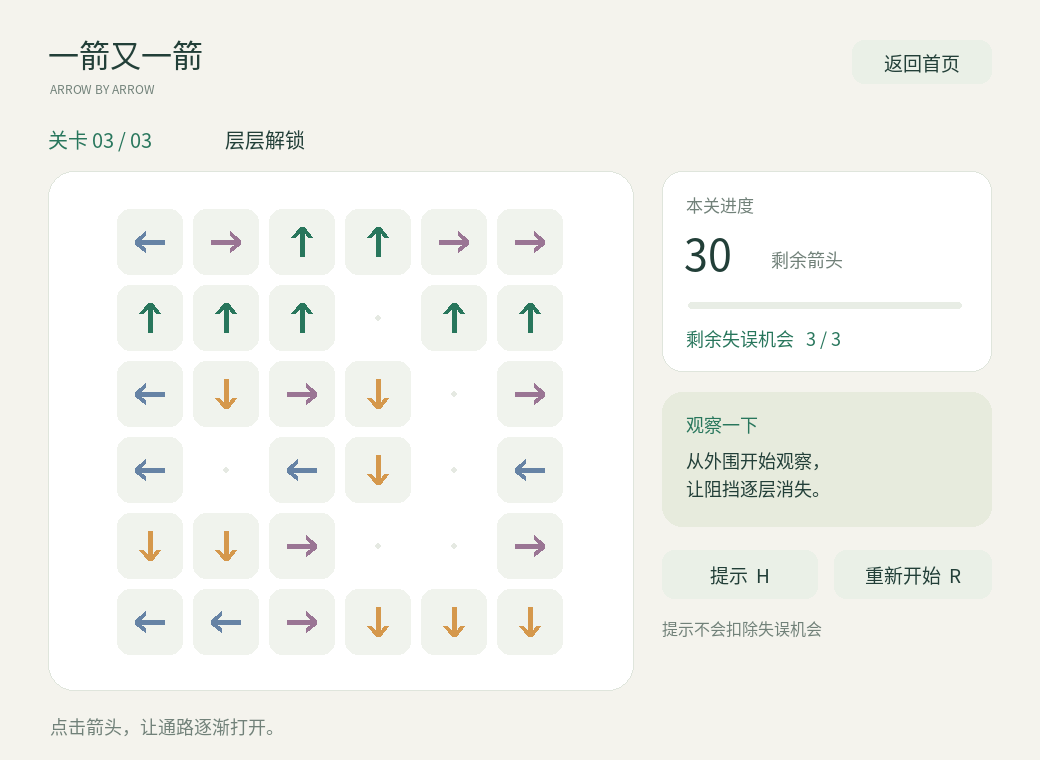
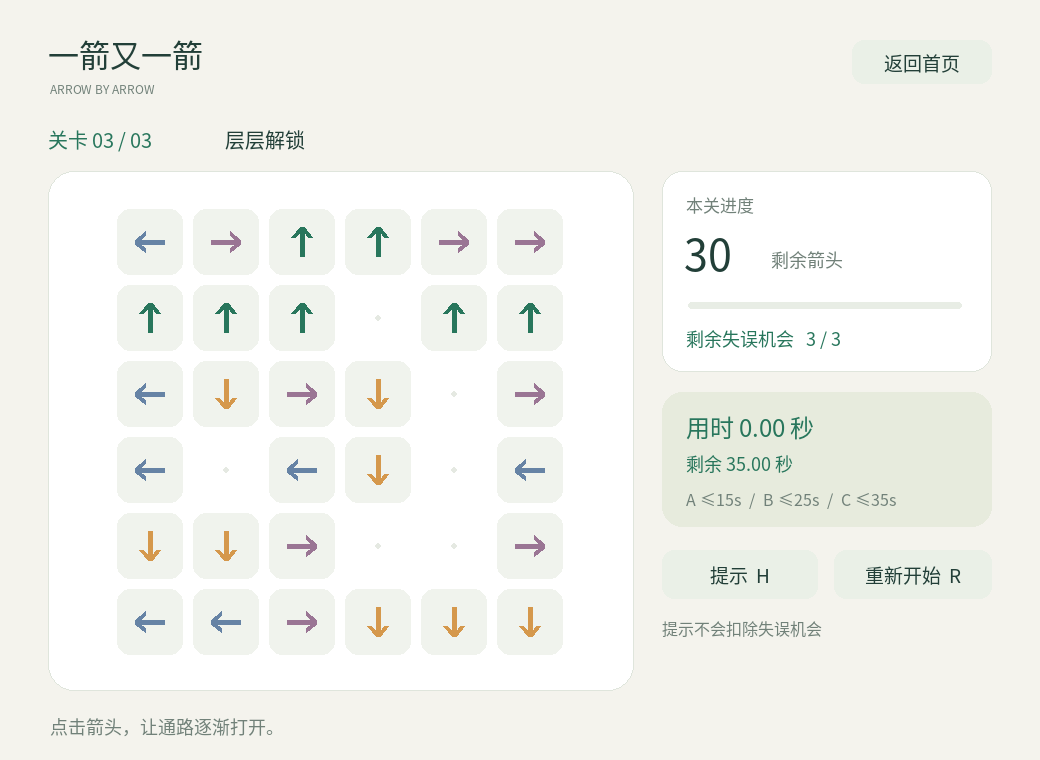
feat: add 35 second timer and A B C ratings

Changed region(s): [[0.6462, 0.5447, 0.8615, 0.6658]]

diff --git a/main.py b/main.py
@@ -6,7 +6,7 @@ from pathlib import Path
 os.environ.setdefault('PYGAME_HIDE_SUPPORT_PROMPT', '1')
 import pygame
 from levels import LEVELS
-from logic import DIRECTIONS, Game
+from logic import DIRECTIONS, Game, TIME_LIMIT, EXIT_DURATION, BUMP_DURATION
 
 ROOT = Path(__file__).resolve().parent
 WIDTH, HEIGHT = 1040, 760
@@ -97,8 +97,9 @@ class App:
         self.text('一场关于顺序的小小解谜', (64, 293), 24, GREEN)
         for i, line in enumerate(['点击前方畅通的箭头，让它飞出棋盘。',
                                   '被其他箭头挡住？你有 3 次失误机会。',
-                                  '清空所有箭头，解锁下一关。']):
+                                  '每关限时 35 秒，超时即挑战失败。']):
             self.text(line, (66, 365+i*40), 20, MUTED)
+        self.text('A ≤15秒   /   B ≤25秒   /   C ≤35秒', (66, 489), 18, GREEN)
         self.button('start', '开始挑战', (64, 534, 234, 58), True)
         self.text('3 个原创关卡   /   鼠标操作   /   轻量解谜', (65, 619), 16, MUTED)
         self.panel((626, 159, 342, 397), '#E6EBDF', radius=32)
@@ -132,7 +133,7 @@ class App:
             x,y=self.cell_center(animation.row,animation.col)
             dr,dc=DIRECTIONS[animation.direction]
             if animation.kind=='exit':
-                t=min(1,animation.elapsed/.58)
+                t=min(1,animation.elapsed/EXIT_DURATION)
                 if dc==1: distance=self.board_rect.right-x+self.cell
                 elif dc==-1: distance=x-self.board_rect.left+self.cell
                 elif dr==1: distance=self.board_rect.bottom-y+self.cell
@@ -140,7 +141,7 @@ class App:
                 offset=distance*t*t
                 color=COLORS[animation.direction]
             else:
-                t=min(1,animation.elapsed/.38)
+                t=min(1,animation.elapsed/BUMP_DURATION)
                 offset=math.sin(t*math.pi)*self.cell*.17
                 color='#CE684D'
             old_clip=self.screen.get_clip()
@@ -168,12 +169,10 @@ class App:
         self.text(f'剩余失误机会   {g.mistakes} / {g.max_mistakes}',(686,325),18,
                   '#B95D43' if g.mistakes<=1 else GREEN)
         self.panel((662,392,330,135), '#E7EBDD')
-        self.text('观察一下', (686,411), 18, GREEN)
-        # 固定短文案，不依赖自动换行。
-        messages=[['先找朝向边界的箭头，','逐步打开通路。'],
-                  ['空格不代表畅通，','留意整行与整列。'],
-                  ['从外围开始观察，','让阻挡逐层消失。']][g.level_index]
-        for i,line in enumerate(messages): self.text(line,(686,447+i*28),18)
+        time_color = '#B95D43' if g.elapsed > 25 else GREEN
+        self.text(f'用时 {g.elapsed:.2f} 秒', (686,409), 24, time_color)
+        self.text(f'剩余 {max(0, TIME_LIMIT-g.elapsed):.2f} 秒', (686,450), 18, time_color)
+        self.text('A ≤15s  /  B ≤25s  /  C ≤35s', (686,487), 16, MUTED)
         self.button('hint','提示  H',(662,550,156,49))
         self.button('restart','重新开始  R',(834,550,158,49))
         self.text('提示不会扣除失误机会', (662,616), 16, MUTED)
@@ -189,12 +188,13 @@ class App:
         state=self.game.state
         won=state!='GAME_OVER'
         title={'LEVEL_CLEAR':'通路已打开！','ALL_CLEAR':'全部通关！','GAME_OVER':'再观察一次吧'}[state]
-        self.text('CLEAR' if won else 'TRY AGAIN',(520,230),16,GREEN if won else '#B95D43',True)
+        self.text(f'评价 {self.game.grade}' if won else 'TRY AGAIN',(520,230),16,GREEN if won else '#B95D43',True)
         self.text(title,(520,291),36,INK,True)
         subtitle=(f'已完成全部 {len(LEVELS)} 个关卡。' if state=='ALL_CLEAR' else
-                  '本关箭头已全部飞出。' if won else '失误机会已用完，重新挑战本关。')
+                  '本关箭头已全部飞出。' if won else '超过 35 秒，时间已用完。' if self.game.failure_reason == 'timeout' else
+                  '失误机会已用完，重新挑战本关。')
         self.text(subtitle,(520,350),19,MUTED,True)
-        self.text(f'本关使用提示 {self.game.used_hints} 次',(520,385),16,MUTED,True)
+        self.text(f'本关用时 {self.game.elapsed:.2f} 秒  ·  提示 {self.game.used_hints} 次',(520,385),16,MUTED,True)
         label='下一关' if state=='LEVEL_CLEAR' else '从第一关开始' if state=='ALL_CLEAR' else '重新挑战'
         self.button('continue',label,(320,432,190,55),True)
         self.button('menu','返回首页',(530,432,190,55))
@@ -244,12 +244,14 @@ class App:
     def run(self):
         self.draw()
         while self.running:
-            dt=min(self.clock.tick(60)/1000, .05)
+            # 不截断 dt：低帧率、窗口拖动等期间也必须累计实际经过时间。
+            dt=self.clock.tick(60)/1000
+            self.game.update(dt)
+            self.draw()  # 超时后先更新结果页按钮，再处理鼠标事件。
             for event in pygame.event.get():
                 self.handle_event(event)
                 # 同一帧内状态变化后，立即更新按钮集合，避免旧按钮响应。
                 if event.type in (pygame.KEYDOWN,pygame.MOUSEBUTTONDOWN): self.draw()
-            self.game.update(dt)
             self.draw()
         pygame.quit()
 

diff --git a/logic.py b/logic.py
@@ -1,6 +1,22 @@
 """不依赖图形库的游戏规则。坐标统一为 (row, col)。"""
 from dataclasses import dataclass
 
+TIME_LIMIT = 35.0
+EXIT_DURATION = 0.25
+BUMP_DURATION = 0.38
+
+
+def time_grade(seconds):
+    """只按通关耗时评级；超过限时无评级。"""
+    if seconds <= 15:
+        return "A"
+    if seconds <= 25:
+        return "B"
+    if seconds <= TIME_LIMIT:
+        return "C"
+    return None
+
+
 DIRECTIONS = {"U": (-1, 0), "D": (1, 0), "L": (0, -1), "R": (0, 1)}
 
 
@@ -69,6 +85,9 @@ class Game:
         self.hint = None
         self.hint_time = 0.0
         self.used_hints = 0
+        self.elapsed = 0.0
+        self.grade = None
+        self.failure_reason = None
 
     @property
     def remaining(self):
@@ -86,6 +105,9 @@ class Game:
         self.hint = None
         self.hint_time = 0.0
         self.used_hints = 0
+        self.elapsed = 0.0
+        self.grade = None
+        self.failure_reason = None
         self.state = "PLAYING"
 
     def restart(self):
@@ -125,20 +147,37 @@ class Game:
             self.used_hints += 1
 
     def update(self, dt):
-        self.hint_time = max(0.0, self.hint_time - dt)
+        if dt < 0:
+            raise ValueError("时间间隔不能为负数")
+        if self.state != "PLAYING":
+            return
+        # 最后一支箭头可能在本帧结束之前飞完，按实际完成时刻结算。
+        animation = self.animation
+        duration = EXIT_DURATION if animation and animation.kind == "exit" else BUMP_DURATION
+        terminal = animation and ((animation.kind == "exit" and self.remaining == 1)
+                                  or (animation.kind == "bump" and self.mistakes == 0))
+        advance = min(dt, max(0.0, duration-animation.elapsed)) if terminal else dt
+        self.elapsed = round(self.elapsed + advance, 9)
+        if self.elapsed > TIME_LIMIT:
+            self.state = "GAME_OVER"
+            self.failure_reason = "timeout"
+            self.animation = None
+            self.hint = None
+            return
+        self.hint_time = max(0.0, self.hint_time - advance)
         if self.hint_time == 0:
             self.hint = None
-        if not self.animation:
+        if not animation:
             return
-        self.animation.elapsed += dt
-        duration = 0.58 if self.animation.kind == "exit" else 0.38
-        if self.animation.elapsed < duration:
+        animation.elapsed = round(animation.elapsed + advance, 9)
+        if animation.elapsed < duration:
             return
-        animation = self.animation
         self.animation = None
         if animation.kind == "exit":
             self.board[animation.row][animation.col] = None
             if self.remaining == 0:
+                self.grade = time_grade(self.elapsed)
                 self.state = "ALL_CLEAR" if self.level_index == len(self.levels)-1 else "LEVEL_CLEAR"
         elif self.mistakes == 0:
+            self.failure_reason = "mistakes"
             self.state = "GAME_OVER"

diff --git a/tests/test_timer.py b/tests/test_timer.py
@@ -1,0 +1,65 @@
+import unittest
+from logic import Game, time_grade
+
+class TimerTests(unittest.TestCase):
+    def game(self):
+        g=Game([{'board':[['U']]}]); g.start(); return g
+
+    def test_grade_boundaries(self):
+        for seconds, grade in [(0,'A'),(15,'A'),(15.000001,'B'),(25,'B'),
+                               (25.000001,'C'),(35,'C'),(35.000001,None)]:
+            with self.subTest(seconds=seconds): self.assertEqual(time_grade(seconds),grade)
+
+    def test_timeout_idle_strictly_after_35(self):
+        g=self.game(); g.update(35)
+        self.assertEqual(g.state,'PLAYING')
+        g.update(.001)
+        self.assertEqual((g.state,g.failure_reason),('GAME_OVER','timeout'))
+        frozen=g.elapsed; g.update(10)
+        self.assertEqual(g.elapsed,frozen)
+        self.assertEqual(g.click(0,0),'ignored')
+
+    def test_finish_exact_boundary_even_slow_frame(self):
+        for finish,grade in [(15,'A'),(25,'B'),(35,'C')]:
+            g=self.game(); g.update(finish-.25); g.click(0,0); g.update(2)
+            self.assertEqual((g.state,g.grade,g.elapsed),('ALL_CLEAR',grade,finish))
+            g.update(20); self.assertEqual(g.elapsed,finish)
+
+    def test_timeout_during_exit(self):
+        g=self.game(); g.update(34.9); g.click(0,0); g.update(.3)
+        self.assertEqual(g.failure_reason,'timeout')
+        self.assertEqual(g.remaining,1)
+        self.assertIsNone(g.animation)
+        self.assertIsNone(g.grade)
+
+    def test_restart_and_next_reset(self):
+        g=Game([{'board':[['U']]},{'board':[['D']]}]); g.start()
+        g.update(14); g.click(0,0); g.update(.25); g.next_level()
+        self.assertEqual(g.elapsed,0)
+        self.assertIsNone(g.grade)
+        g.update(36); g.restart()
+        self.assertEqual((g.elapsed,g.state,g.mistakes),(0,'PLAYING',3))
+        self.assertIsNone(g.failure_reason)
+
+    def test_menu_no_time_and_hint_does_not_pause(self):
+        g=self.game(); g.show_hint(); g.update(5)
+        self.assertEqual(g.elapsed,5)
+        g.menu(); g.update(40); self.assertEqual(g.elapsed,5)
+        g.start(); self.assertEqual(g.elapsed,0)
+
+    def test_animation_and_idle_both_count(self):
+        g=Game([{'board':[['R','U']]}]);g.start();g.update(10)
+        g.click(0,0);g.update(.38)
+        self.assertAlmostEqual(g.elapsed,10.38)
+        self.assertEqual(g.mistakes,2)
+        g.click(0,1);g.update(.25)
+        self.assertAlmostEqual(g.elapsed,10.63)
+
+    def test_third_level_animation_budget_allows_A(self):
+        from levels import LEVELS
+        from logic import solve, EXIT_DURATION
+        g=Game(LEVELS);g.start(2)
+        for r,c in solve(g.board):
+            g.click(r,c);g.update(EXIT_DURATION)
+        self.assertEqual(g.grade,'A')
+        self.assertEqual(g.elapsed,7.5)

diff --git a/tests/test_ui.py b/tests/test_ui.py
@@ -64,4 +64,19 @@ class UITests(unittest.TestCase):
         self.button('menu')
         self.assertEqual(g.state,'MENU')
 
+    def test_timeout_result_restart_and_grade_render(self):
+        self.button('start')
+        self.app.game.update(35.001)
+        self.app.draw()
+        self.assertEqual(self.app.game.failure_reason,'timeout')
+        self.assertIn('continue',self.app.buttons)
+        self.button('continue')
+        self.assertEqual(self.app.game.elapsed,0)
+        for r,c in solve(self.app.game.board):
+            self.click(self.app.cell_center(r,c))
+            self.app.game.update(.25)
+            self.app.draw()
+        self.assertEqual(self.app.game.grade,'A')
+        self.assertIn('continue',self.app.buttons)
+
 if __name__=='__main__': unittest.main()

diff --git a/docs/capture_demo.py b/docs/capture_demo.py
@@ -40,5 +40,8 @@ for r,c in solve(app.game.board):
     app.game.click(r,c)
     app.game.update(1)
 capture('07_all_clear.png')
+app.start(1)
+app.game.update(35.01)
+capture('08_timeout.png')
 pygame.quit()
-print('Saved 7 screenshots')
+print('Saved 8 screenshots')

diff --git a/README.md b/README.md
@@ -4,12 +4,12 @@
 
 ## 安装与运行
 
-建议使用 Python 3.12（本项目实测版本为 3.12.14），依赖 Pygame 2.6.1。需要图形桌面和鼠标。解压整个项目，保留 `assets` 文件夹；不要在压缩包内直接打开程序。
+可使用 Python 3.12 或 3.14（本次自动化实测版本为 3.12.14），依赖 pygame-ce 2.5.8。需要图形桌面和鼠标。解压整个项目，保留 `assets` 文件夹；不要在压缩包内直接打开程序。
 
 Windows：打开项目文件夹，在地址栏输入 `cmd` 并回车，然后执行：
 
 ```bat
-py -3.12 -m venv .venv
+python -m venv .venv
 .venv\Scripts\python -m pip install -r requirements.txt
 .venv\Scripts\python main.py
 ```
@@ -30,6 +30,19 @@ python3.12 -m venv .venv
 ```
 
 第一次安装依赖需要网络；之后游戏可离线运行，不调用 AI API，不需要密钥。
+
+## 限时评级（每关独立）
+
+| 完成耗时 t | 结果 |
+| --- | --- |
+| t ≤ 15 秒 | A |
+| 15 < t ≤ 25 秒 | B |
+| 25 < t ≤ 35 秒 | C |
+| t > 35 秒 | 立即失败 |
+
+进入关卡时开始计时，最后一支箭头飞出动画完成时结算。观察、提示、碰撞、飞出动画及窗口失去焦点期间均计时，不提供暂停；结果页停止计时。重开和下一关归零。仍保留 3 次失误机制，失误耗尽也会失败。界面显示两位小数，判断使用未格式化的时间，边界按上述规则执行。
+
+飞出动画缩短到每支 0.25 秒，使第三关 30 支箭头的理论最短动画耗时为 7.5 秒，A 评级在规则上可达。
 
 ## 操作与规则
 
@@ -52,7 +65,8 @@ python3.12 -m venv .venv
 | `logic.py` | 路径检测、求解器、游戏状态与动画事务 |
 | `levels.py` | 三个固定关卡 |
 | `tests/test_logic.py` | 11 项核心规则测试 |
-| `tests/test_ui.py` | 2 项界面事件流程测试 |
+| `tests/test_timer.py` | 8 项计时、评级边界和超时测试 |
+| `tests/test_ui.py` | 3 项界面事件流程测试 |
 | `assets/` | 中文字体及字体许可证 |
 | `docs/` | 截图、开发记录、测试报告、PSP 表与通关顺序 |
 
@@ -62,7 +76,7 @@ python3.12 -m venv .venv
 
 ## 游戏截图
 
-截图由实际 Pygame 画面生成。
+截图由实际 pygame-ce 画面生成。
 
 ![开始界面](docs/01_menu.png)
 ![游戏界面](docs/02_game.png)
@@ -77,7 +91,7 @@ python3.12 -m venv .venv
 python -m unittest discover -s tests -v
 ```
 
-13 项测试已在 Linux / Python 3.12.14 / Pygame 2.6.1 环境通过。界面测试使用 SDL dummy 驱动和模拟鼠标事件，可在无桌面环境运行；覆盖三关完整通关、失败重开、重复点击和中途重开。
+22 项测试已在 Linux / Python 3.12.14 / pygame-ce 2.5.8 环境通过。界面测试使用 SDL dummy 驱动和模拟鼠标事件，可在无桌面环境运行；覆盖三关完整通关、失败重开、重复点击和中途重开。
 
 原始输出见 `docs/test_output.txt`。自动化测试不替代本人试玩：Windows 桌面实机运行、主观动画流畅度以及每关人工试玩，需下载后确认。
 

diff --git a/docs/TEST_REPORT.md b/docs/TEST_REPORT.md
@@ -1,8 +1,8 @@
 # 测试报告
 
-环境：Linux、Python 3.12.14、Pygame 2.6.1、SDL 2.28.4；界面用 SDL dummy 驱动进行无窗口渲染和模拟鼠标事件测试。
+环境：Linux、Python 3.12.14、pygame-ce 2.5.8；界面用 SDL dummy 驱动进行无窗口渲染和模拟鼠标事件测试。
 
-结果：13 项 unittest 测试通过。原始输出见 `test_output.txt`。
+结果：22 项 unittest 测试通过。原始输出见 `test_output.txt`。
 
 | 编号 | 内容 | 预期 | 本次实际结果 |
 | --- | --- | --- | --- |
@@ -30,3 +30,9 @@
 | 碰撞动画与失误扣除 | 待填 |
 | 失败重开与中途重开 | 待填 |
 | 空格与棋盘外点击 | 待填 |
+
+## 限时评级更新验证
+
+新增 8 项逻辑测试、1 项界面测试：15/25/35 秒精确边界及刚超过边界；35 秒仍可继续、超过即失败；最后动画恰好 35 秒完成算 C；慢帧内按真实完成时刻评级；飞出期间超时不再删除；结果页停止计时；重开/下一关归零；提示不暂停；超时结果页可以重开；第三关理论动画耗时 7.5 秒可获 A。
+
+本次在独立 pygame-ce 环境运行全套测试，重新生成截图。用户电脑的 Python 3.14 尚需本人运行确认。

diff --git a/docs/DEVELOPMENT.md b/docs/DEVELOPMENT.md
@@ -52,3 +52,11 @@
 - 将项目推送到自己的 GitHub 仓库，检查文件与图片是否正常显示。
 - 在博客补充学号、课程及作业链接、GitHub 链接、真实 AI 对话记录、PSP 与个人心得。
 - 本文是开发记录，不是已经完成的课程博客，不应直接将“待填”内容当最终提交。
+
+## 后续真实需求：按时间评价
+
+用户要求：≤15s 为 A，≤25s 为 B，≤35s 为 C，>35s 闯关失败。
+
+AI 修改：每关计时，游戏界面增加用时和倒计时，结果页显示等级与耗时，区分超时/失误失败；重开与下一关归零。计时使用未截断的帧间隔，防止低帧率使限时变慢；最后一次动画在慢帧中按实际完成时刻结算。飞出缩短到 0.25 秒，避免第三关仅动画就超过 A 的上限。依赖改为 pygame-ce 2.5.8，对应用户之前报告的 Python 3.14 安装问题。
+
+验证：增加阈值和状态测试，以及超时结果页/评级渲染事件测试。当前共 22 项测试。用户人工修改及实际试玩仍待本人补充。
